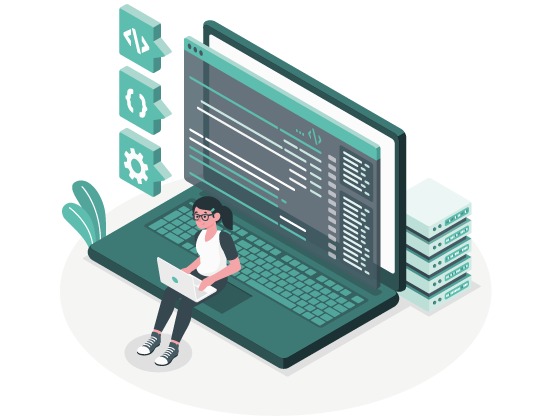
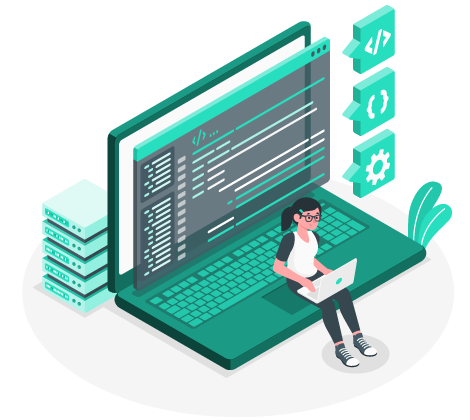
Cambio boton hero

diff --git a/sass/css/main.css b/sass/css/main.css
@@ -1,3 +1,3 @@
-html,body{margin:0;padding:0;font-size:16px}h1,h2{color:#6b64c3;font-family:"Nunito",sans-serif;font-weight:700}section#index{margin-top:80px}div i.icon{font-size:1.5rem;padding-bottom:20px;color:#ffffff;background:#7c60d5;line-height:60px;height:60px;width:60px;text-align:center;border-radius:100%}ul.listing-mark li{position:relative;list-style-type:none;padding-left:15px;margin:20px 0;font-size:16px}section#contacto{margin-bottom:30px}section#contacto textarea,section#contacto input,section#contacto select{padding:10px;display:block;margin-bottom:10px}section#contacto .img-formulario{scroll-padding-top:60px;align-self:center}section#contacto .titulo-contacto{text-align:center;font-size:22px;font-weight:800;color:#004466}section#contacto .formulario{padding-top:30px;padding-left:50px}section#contacto .boton-enviar{border-radius:30px;background-color:#fff;width:250px;margin-left:30px;font-weight:600}section#contacto .boton-enviar:hover{background-color:#a2dfb5;color:#60234d;font-weight:600;border:#a2dfb5}.image__perfil{width:100%;margin-bottom:20px}.solutions{margin-top:30px}div .perfil__margen{margin-bottom:30px;margin-top:20px;padding-bottom:15px}footer{bottom:0;right:0;width:100%;height:80px;background:#7c60d5;color:#ffffff;margin:0;text-align:center}section#servicios .servicios__descripcion{padding-bottom:10px}section#servicios .servicios__item{padding-bottom:30px}ul li i{color:#02d871;content:"";top:2px;font-size:30px;font-weight:normal;font-family:"Font Awesome 5 Free"}ul.servicios__margen li{margin-bottom:15px}h5.servicios__title{font-weight:800;font-family:"Nunito",sans-serif}h5.servicios__title a{color:#7c60d5}h5.servicios__title a:focus,h5.servicios__title a:hover{color:#33e2a0;text-decoration:none !important}ul.fa-ul.li__servicios{margin-left:0}i.icon__servicios{font-size:1.5rem;padding-bottom:20px;color:#ffffff;background:#7c60d5;line-height:60px;height:60px;width:60px;text-align:center;border-radius:100%}.section .title-area{max-width:760px;margin:0 auto 40px;display:block;padding:0 15px;text-align:center}.title-area{max-width:760px;margin:0 auto 20px;display:block;padding:0 15px;text-align:center;font-family:"Nunito",sans-serif}.text-gray{color:#777777}.subtitle{font-family:"Nunito",sans-serif}.section .title-area .description{font-size:16px;color:#777777}p.description{font-size:16px;color:#777777}.description{margin-bottom:20px}.separator-danger{color:#e78b90}.separator{color:#c5a47e;margin:0 auto 20px;max-width:240px;text-align:center;position:relative}.separator:before,.separator:after{display:block;width:40%;content:" ";margin-top:10px;border:1px solid #c5a47e}*:before,*:after{box-sizing:border-box}.separator-danger:before,.separator-danger:after{border-color:#e78b90}.separator:before{float:left}.separator:after{float:right}.section-our-projects .project{margin-bottom:30px}.project{position:relative;width:100%;overflow:hidden}.project img{width:100%;vertical-align:middle;border:0}.project .over-area:hover{opacity:1;transition:background 0.25s, opacity 0.25s 0s}.project .over-area:hover .content{opacity:1}.project .over-area{display:inline-block;text-align:center;position:absolute;z-index:3;padding:10% 8%;top:0;left:0;width:100%;height:100%;color:white;opacity:0;background:rgba(0,0,0,0.55);transition:background 0.5s, opacity 0.5s 0.5s}a:active,a:hover{outline:0}a:hover,a:focus{text-decoration:none}.project a{color:#777777;opacity:.7;font-size:14px;font-family:"Nunito",sans-serif;text-decoration:none}.project .content{position:relative;opacity:0;text-align:center;vertical-align:middle;display:inline-block;width:100%;min-height:165px;word-break:break;opacity:0.5s;perspective:300px}.label-danger{background-color:#e78b90}.label{display:inline;padding:.2em .6em .3em;font-size:75%;font-weight:bold;line-height:1;color:#fff;text-align:center;white-space:nowrap;vertical-align:baseline;border-radius:.25em}label{display:inline-block;max-width:100%;margin-bottom:5px;font-weight:bold}.project h3{font-size:2.4em;line-height:1.25;margin:0.4em 0;font-weight:bold}p{line-height:1.6em;font-weight:400;margin:0 0 .75em}.porfolios .project{margin-bottom:30px}#servicios,#perfil,#porfolio,#contacto{display:block;margin-top:-75px;padding-top:110px;margin-bottom:40px}.bgimage{width:100%;height:500px;background:url("../../images/hero-background-image-01.png");background-repeat:no-repeat;background-position:center;background-attachment:fixed;background-color:#7bfbce}.bgimage p{color:#6b64c3;font-family:"Nunito",sans-serif}.bgimage h1{text-shadow:2px 2px #f6f6f6}
+html,body{margin:0;padding:0;font-size:16px}h1,h2{color:#6b64c3;font-family:"Nunito",sans-serif;font-weight:700}section#index{margin-top:80px}div i.icon{font-size:1.5rem;padding-bottom:20px;color:#ffffff;background:#7c60d5;line-height:60px;height:60px;width:60px;text-align:center;border-radius:100%}ul.listing-mark li{position:relative;list-style-type:none;padding-left:15px;margin:20px 0;font-size:16px}section#contacto{margin-bottom:30px}section#contacto textarea,section#contacto input,section#contacto select{padding:10px;display:block;margin-bottom:10px}section#contacto .img-formulario{scroll-padding-top:60px;align-self:center}section#contacto .titulo-contacto{text-align:center;font-size:22px;font-weight:800;color:#004466}section#contacto .formulario{padding-top:30px;padding-left:50px}section#contacto .boton-enviar{border-radius:30px;background-color:#fff;width:250px;margin-left:30px;font-weight:600}section#contacto .boton-enviar:hover{background-color:#a2dfb5;color:#60234d;font-weight:600;border:#a2dfb5}.image__perfil{width:100%;margin-bottom:20px}.solutions{margin-top:30px}div .perfil__margen{margin-bottom:30px;margin-top:20px;padding-bottom:15px}footer{bottom:0;right:0;width:100%;height:80px;background:#7c60d5;color:#ffffff;margin:0;text-align:center}section#servicios .servicios__descripcion{padding-bottom:10px}section#servicios .servicios__item{padding-bottom:30px}ul li i{color:#02d871;content:"";top:2px;font-size:30px;font-weight:normal;font-family:"Font Awesome 5 Free"}ul.servicios__margen li{margin-bottom:15px}h5.servicios__title{font-weight:800;font-family:"Nunito",sans-serif}h5.servicios__title a{color:#7c60d5}h5.servicios__title a:focus,h5.servicios__title a:hover{color:#33e2a0;text-decoration:none !important}ul.fa-ul.li__servicios{margin-left:0}i.icon__servicios{font-size:1.5rem;padding-bottom:20px;color:#ffffff;background:#7c60d5;line-height:60px;height:60px;width:60px;text-align:center;border-radius:100%}.section .title-area{max-width:760px;margin:0 auto 40px;display:block;padding:0 15px;text-align:center}.title-area{max-width:760px;margin:0 auto 20px;display:block;padding:0 15px;text-align:center;font-family:"Nunito",sans-serif}.text-gray{color:#777777}.subtitle{font-family:"Nunito",sans-serif}.section .title-area .description{font-size:16px;color:#777777}p.description{font-size:16px;color:#777777}.description{margin-bottom:20px}.separator-danger{color:#e78b90}.separator{color:#c5a47e;margin:0 auto 20px;max-width:240px;text-align:center;position:relative}.separator:before,.separator:after{display:block;width:40%;content:" ";margin-top:10px;border:1px solid #c5a47e}*:before,*:after{box-sizing:border-box}.separator-danger:before,.separator-danger:after{border-color:#e78b90}.separator:before{float:left}.separator:after{float:right}.section-our-projects .project{margin-bottom:30px}.project{position:relative;width:100%;overflow:hidden}.project img{width:100%;vertical-align:middle;border:0}.project .over-area:hover{opacity:1;transition:background 0.25s, opacity 0.25s 0s}.project .over-area:hover .content{opacity:1}.project .over-area{display:inline-block;text-align:center;position:absolute;z-index:3;padding:10% 8%;top:0;left:0;width:100%;height:100%;color:white;opacity:0;background:rgba(0,0,0,0.55);transition:background 0.5s, opacity 0.5s 0.5s}a:active,a:hover{outline:0}a:hover,a:focus{text-decoration:none}.project a{color:#777777;opacity:.7;font-size:14px;font-family:"Nunito",sans-serif;text-decoration:none}.project .content{position:relative;opacity:0;text-align:center;vertical-align:middle;display:inline-block;width:100%;min-height:165px;word-break:break;opacity:0.5s;perspective:300px}.label-danger{background-color:#e78b90}.label{display:inline;padding:.2em .6em .3em;font-size:75%;font-weight:bold;line-height:1;color:#fff;text-align:center;white-space:nowrap;vertical-align:baseline;border-radius:.25em}label{display:inline-block;max-width:100%;margin-bottom:5px;font-weight:bold}.project h3{font-size:2.4em;line-height:1.25;margin:0.4em 0;font-weight:bold}p{line-height:1.6em;font-weight:400;margin:0 0 .75em}.porfolios .project{margin-bottom:30px}#servicios,#perfil,#porfolio,#contacto{display:block;margin-top:-75px;padding-top:110px;margin-bottom:40px}.bgimage{width:100%;height:500px;background:url("../../images/hero-background-image-01.png");background-repeat:no-repeat;background-position:center;background-attachment:fixed;background-color:#7bfbce}.bgimage p{color:#6b64c3;font-family:"Nunito",sans-serif}.bgimage h1{text-shadow:2px 2px #f6f6f6}.btn-redondeado{display:inline-block;font-weight:400;color:#212529;text-align:center;vertical-align:middle;-webkit-user-select:none;-moz-user-select:none;-ms-user-select:none;user-select:none;background-color:transparent;border:1px solid transparent;padding:0.65rem 0.85rem;font-size:1rem;line-height:1.5;border-radius:2rem;transition:color .15s ease-in-out,background-color .15s ease-in-out,border-color .15s ease-in-out,box-shadow .15s ease-in-out}.btn-lila{color:#fff;background-color:#7c60d5;border-color:#7c60d5}.btn-lila:hover{color:#fff;background-color:#02d871;border-color:#04bf64;cursor:pointer}
 
[2 lines of base64/hex data omitted]

diff --git a/index.html b/index.html
@@ -54,7 +54,7 @@
                 <h1 class="col-md-6 pt-sm-0 pt-md-5">Soluciones Digitales <br>
                   Desarrollo Web y Marketing</h1>
                 <p class="col-md-6">This is a template for a simple marketing or informational website. It includes a large callout called the hero unit and three supporting pieces of content. Use it as a starting point to create something more unique.</p>
-                <p class="col-md-6"><a hre f="#" class="btn btn-primary btn-large">Learn more »</a></p>
+                <p class="col-md-6"><a hre f="#" class="btn-redondeado btn-lila">Servicios »</a></p>
               </div>
             </div>
           </div>
@@ -63,7 +63,7 @@
           <div class="container">
             <div class="row no-gutters flex-row-reverse">
               <div class="col-lg-6">
-                <img src="images/hero-image-01.png" class="img-fluid" alt="">
+                <img src="images/hero-image-02.png" class="img-fluid" alt="">
               </div>
               <div class="col-lg-6 align-self-center">
                 <h2 class="mb-2">Soluciones en Marketing digital</h2>

diff --git a/sass/scss/_buttons.scss b/sass/scss/_buttons.scss
@@ -1,0 +1,28 @@
+.btn-redondeado {
+    display: inline-block;
+    font-weight: 400;
+    color: #212529;
+    text-align: center;
+    vertical-align: middle;
+    user-select: none;
+    background-color: transparent;
+    border: 1px solid transparent;
+    padding: 0.65rem 0.85rem;
+    font-size: 1rem;
+    line-height: 1.5;
+    border-radius: 2rem;
+    transition: color .15s ease-in-out,background-color .15s ease-in-out,border-color .15s ease-in-out,box-shadow .15s ease-in-out;
+}
+
+.btn-lila {
+    color: #fff;
+    background-color:$color-primary;
+    border-color:$color-primary;
+}
+
+.btn-lila:hover {
+    color: #fff;
+    background-color:#02d871;
+    border-color: #04bf64;
+    cursor: pointer;
+}

diff --git a/sass/scss/_variables.scss b/sass/scss/_variables.scss
@@ -5,3 +5,4 @@ $font-family-icon: "Font Awesome 5 Free";
 $bg-footer: #7c60d5;
 $title-white: #fff;
 $bg-proceso: #7c60d5;
+$color-primary:  #7c60d5;

diff --git a/sass/scss/estilos.scss b/sass/scss/estilos.scss
@@ -11,3 +11,5 @@
 @import 'mixin';
 
 @import 'images';
+
+@import 'buttons';
